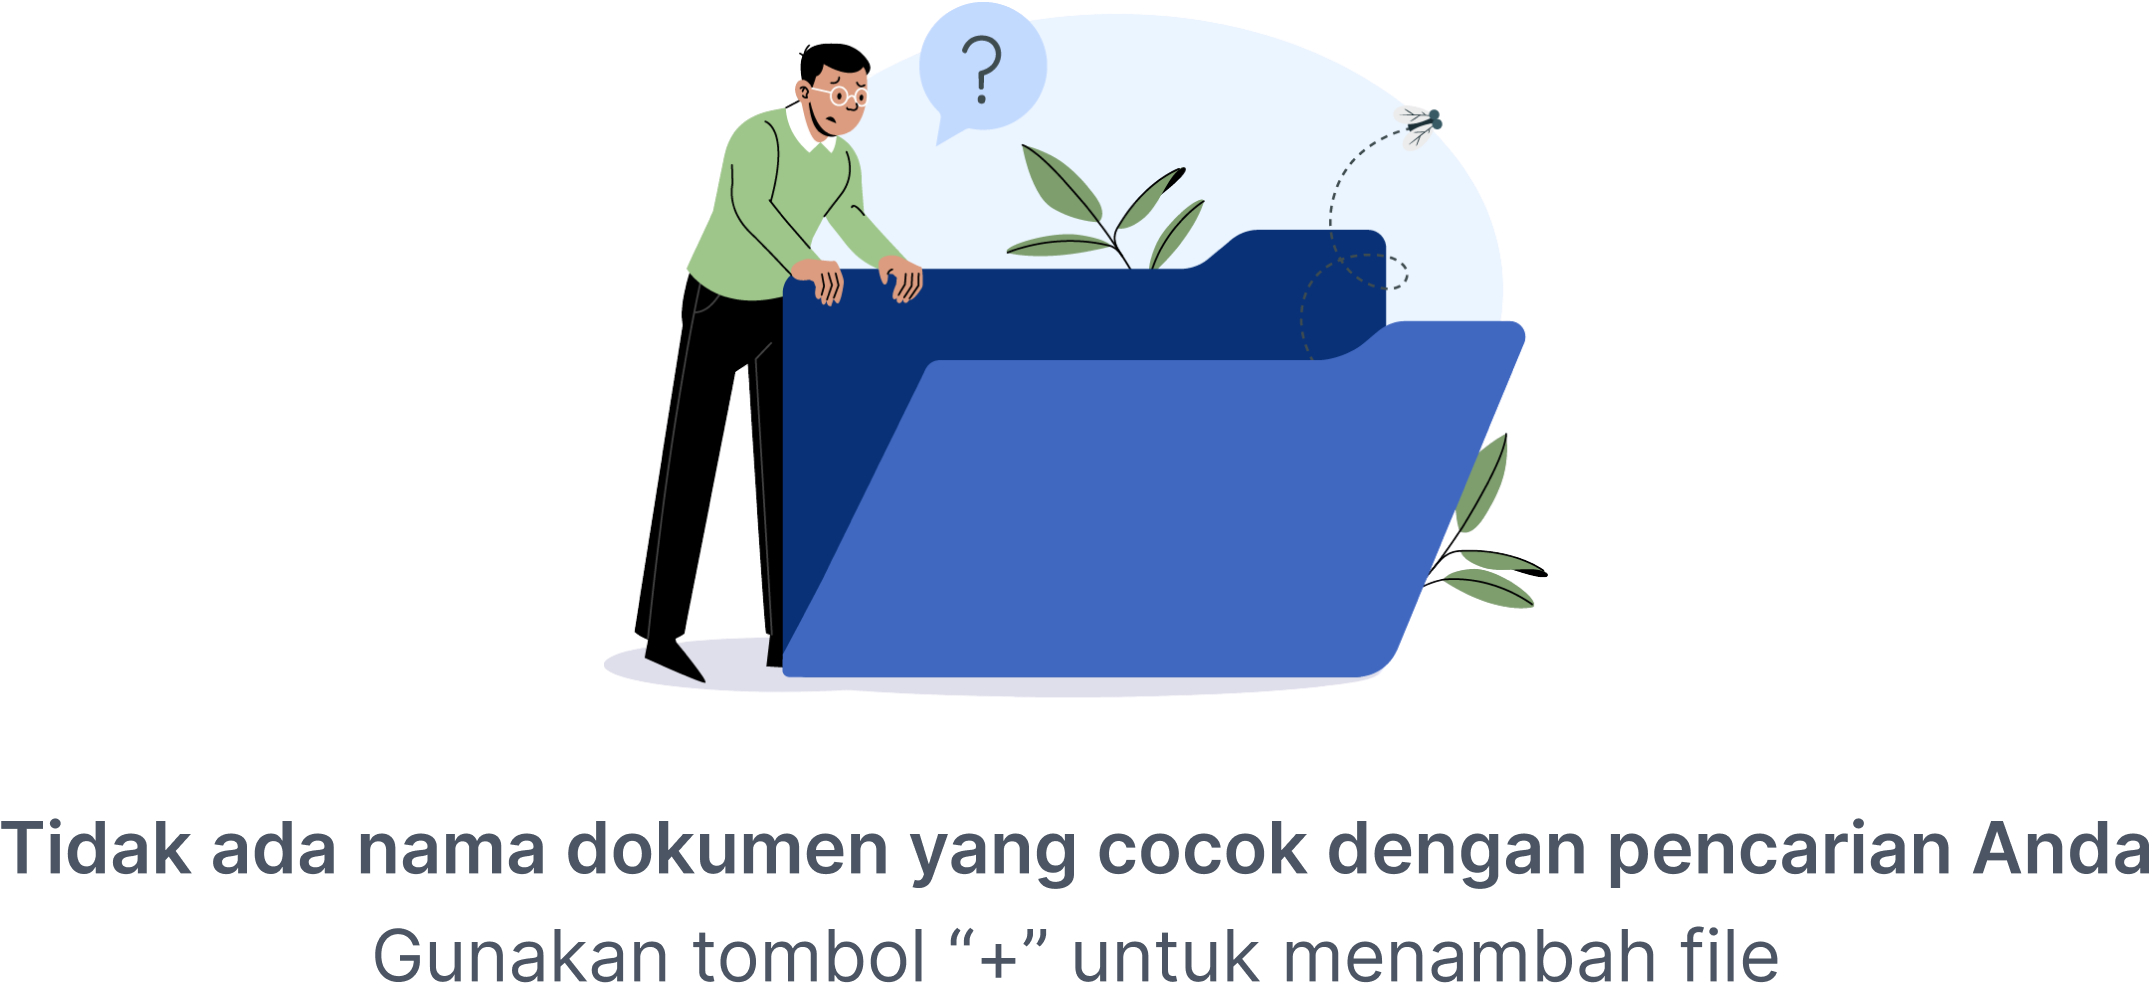
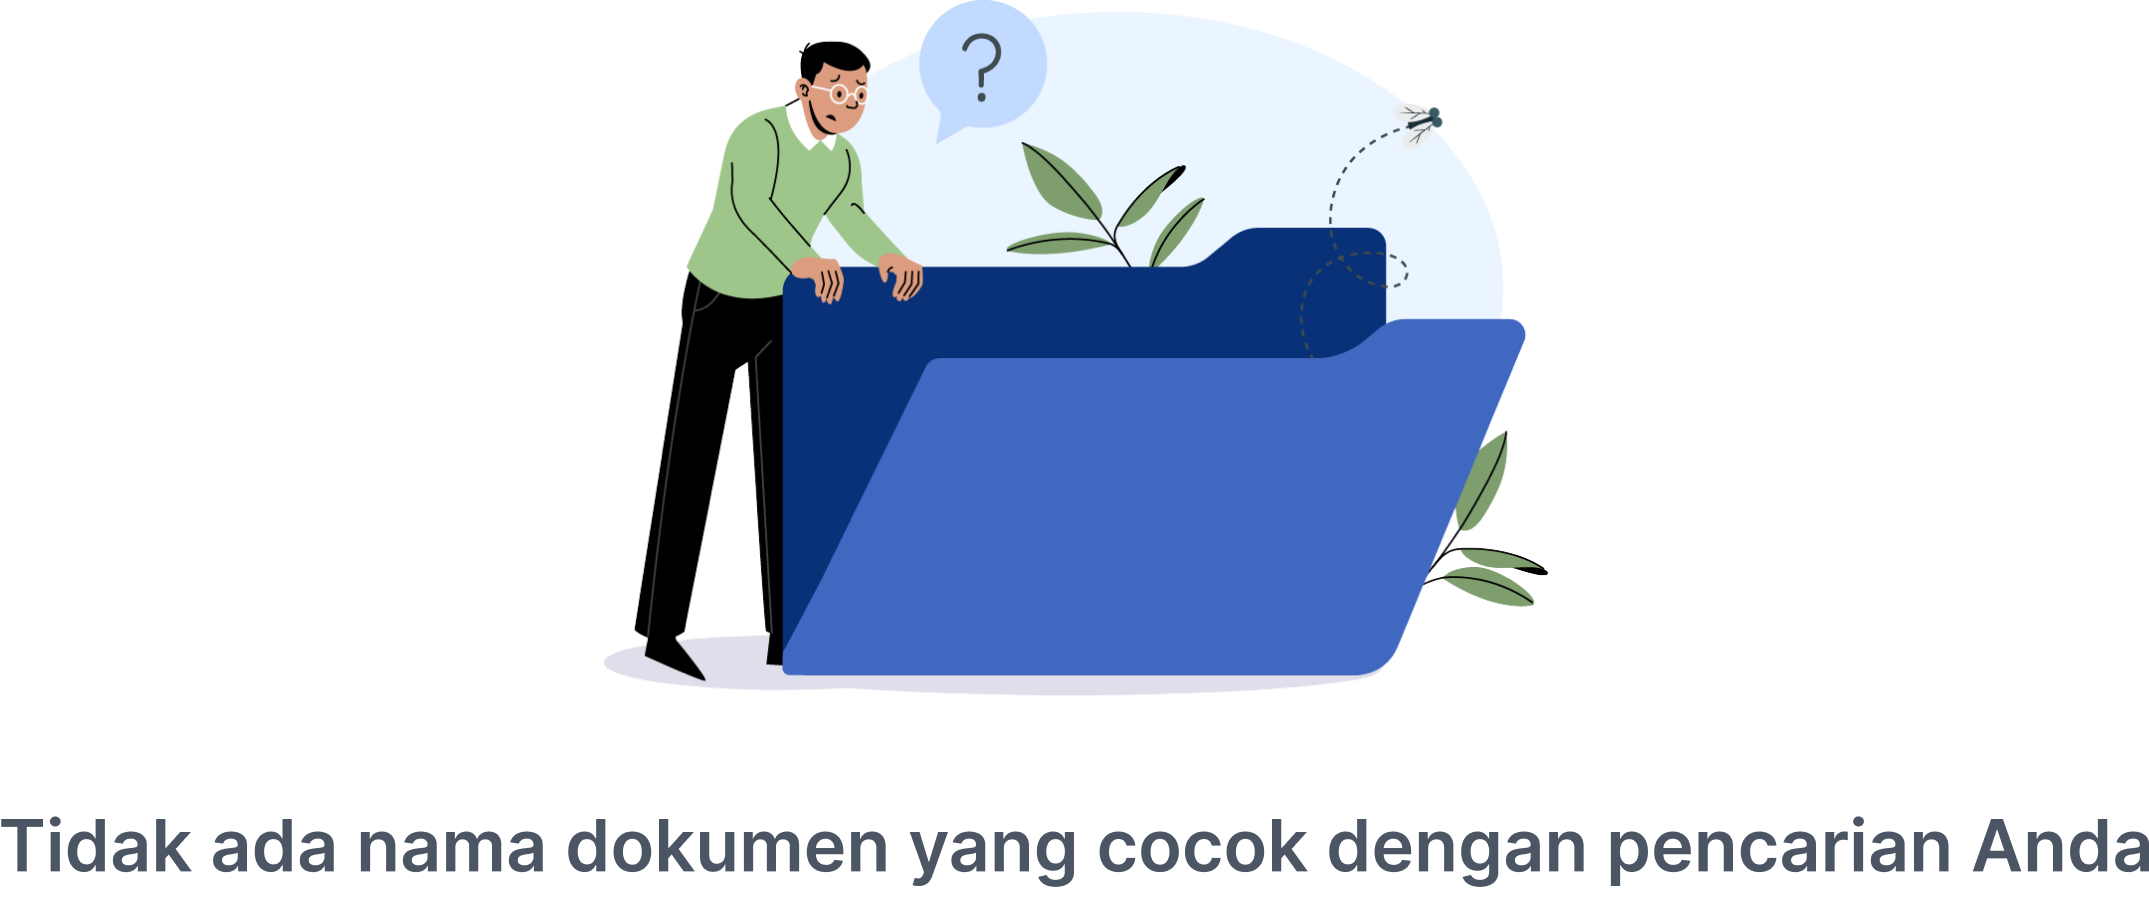
fix asset

diff --git a/src/components/ListFolder/Allfolder.jsx b/src/components/ListFolder/Allfolder.jsx
@@ -8,7 +8,7 @@ import EditFolder from "../Edit/EditFolder";
 import HapusSubFolder from "../Deleted/HapusSubFolder";
 import EditSubFolder from "../Edit/EditSubFolder";
 
-const Allfolder = ({ data, id, file, sub, api, direct, access }) => {
+const Allfolder = ({ data, id, file, sub, api, direct, access, keyword }) => {
   const [showDropdown, setShowDropdown] = useState(false);
   const [dropdownPosition, setDropdownPosition] = useState({ top: 0, left: 0 });
   const [selectedFolder, setSelectedFolder] = useState("");
@@ -134,13 +134,25 @@ const Allfolder = ({ data, id, file, sub, api, direct, access }) => {
             );
           }
         })
-      ) : (
+      ) : data && data.length < 1 && keyword ? (
         <div className="w-full h-[500px] flex items-center justify-center">
           <div>
             <Image
               className="mt-2"
               src="/assets/search-folder.png"
               alt="Search not found"
+              width={500}
+              height={273}
+            />
+          </div>
+        </div>
+      ) : (
+        <div className="w-full h-[500px] flex items-center justify-center">
+          <div>
+            <Image
+              className="mt-2"
+              src="/assets/folder-kosong.png"
+              alt="Kosong"
               width={500}
               height={273}
             />

diff --git a/src/components/ListFile/Allfile.jsx b/src/components/ListFile/Allfile.jsx
@@ -17,6 +17,7 @@ const Allfile = ({
   api,
   direct,
   access,
+  keyword,
 }) => {
   const [showDropdown, setShowDropdown] = useState(false);
   const [dropdownPosition, setDropdownPosition] = useState({ top: 0, left: 0 });
@@ -143,13 +144,25 @@ const Allfile = ({
             }
           }
         })
-      ) : (
+      ) : data && data.length < 1 && keyword ? (
         <div className="w-full h-[500px] flex items-center justify-center">
           <div>
             <Image
               className="mt-2"
               src="/assets/search.png"
               alt="Search not found"
+              width={500}
+              height={273}
+            />
+          </div>
+        </div>
+      ) : (
+        <div className="w-full h-[500px] flex items-center justify-center">
+          <div>
+            <Image
+              className="mt-2"
+              src="/assets/dokumen-kosong.png"
+              alt="Kosong"
               width={500}
               height={273}
             />

diff --git a/src/components/ListFolder/index.jsx b/src/components/ListFolder/index.jsx
@@ -10,7 +10,8 @@ const ListFolder = ({
   selectedFileId,
   api,
   direct,
-  access
+  access,
+  keyword
 }) => {
   return (
     <>
@@ -24,6 +25,7 @@ const ListFolder = ({
         api={api}
         direct={direct} 
         access={access}
+        keyword={keyword}
       />
     </>
   );

diff --git a/src/components/ListFile/index.jsx b/src/components/ListFile/index.jsx
@@ -12,6 +12,7 @@ const ListFile = ({
   api,
   direct,
   access,
+  keyword
 }) => {
   return (
     <>
@@ -26,6 +27,7 @@ const ListFile = ({
         api={api}
         direct={direct}
         access={access}
+        keyword={keyword}
       />
     </>
   );

diff --git a/src/app/searchFileAkre/[subid]/[id]/[keyword]/page.jsx b/src/app/searchFileAkre/[subid]/[id]/[keyword]/page.jsx
@@ -121,6 +121,7 @@ const Page = ({ params: { subid, id, keyword } }) => {
               direct="akreditasi"
               fileID={selectedFileId}
               access={access}
+              keyword={keyword}
             />
           </div>
         </div>

diff --git a/src/app/searchSubFileKepegawaian/[id]/[keyword]/page.jsx b/src/app/searchSubFileKepegawaian/[id]/[keyword]/page.jsx
@@ -109,6 +109,7 @@ const Page = ({ params: { id, keyword } }) => {
               fileID={selectedFileId}
               direct="filekepegawaian"
               access={access}
+              keyword={keyword}
             />
           </div>
         </div>

diff --git a/src/app/searchFileProgram/[subid]/[id]/[keyword]/page.jsx b/src/app/searchFileProgram/[subid]/[id]/[keyword]/page.jsx
@@ -121,6 +121,7 @@ const Page = ({ params: { subid, id, keyword } }) => {
               direct="program"
               fileID={selectedFileId}
               access={access}
+              keyword={keyword}
             />
           </div>
         </div>

diff --git a/src/app/searchFileBarang/[subid]/[id]/[keyword]/page.jsx b/src/app/searchFileBarang/[subid]/[id]/[keyword]/page.jsx
@@ -121,6 +121,7 @@ const Page = ({ params: { subid, id, keyword } }) => {
               direct="barang"
               fileID={selectedFileId}
               access={access}
+              keyword={keyword}
             />
           </div>
         </div>

diff --git a/src/app/searchSubAkre/[id]/[keyword]/page.jsx b/src/app/searchSubAkre/[id]/[keyword]/page.jsx
@@ -91,6 +91,7 @@ const Page = ({ params: { id, keyword } }) => {
               fileID={selectedFolderId}
               direct="subakreditasi"
               access={access}
+              keyword={keyword}
             />
           </div>
         </div>

diff --git a/src/app/searchFileArsip/[subid]/[id]/[keyword]/page.jsx b/src/app/searchFileArsip/[subid]/[id]/[keyword]/page.jsx
@@ -121,6 +121,7 @@ const Page = ({ params: { subid, id, keyword } }) => {
               direct="arsip"
               fileID={selectedFileId}
               access={access}
+              keyword={keyword}
             />
           </div>
         </div>

diff --git a/src/app/searchSubFileKeuangan/[id]/[keyword]/page.jsx b/src/app/searchSubFileKeuangan/[id]/[keyword]/page.jsx
@@ -109,6 +109,7 @@ const Page = ({ params: { id, keyword } }) => {
               fileID={selectedFileId}
               direct="filekeuangan"
               access={access}
+              keyword={keyword}
             />
           </div>
         </div>

diff --git a/src/app/searchSubProgram/[id]/[keyword]/page.jsx b/src/app/searchSubProgram/[id]/[keyword]/page.jsx
@@ -92,6 +92,7 @@ const Page = ({ params: { id, keyword } }) => {
               fileID={selectedFolderId}
               direct="subprogram"
               access={access}
+              keyword={keyword}
             />
           </div>
         </div>
